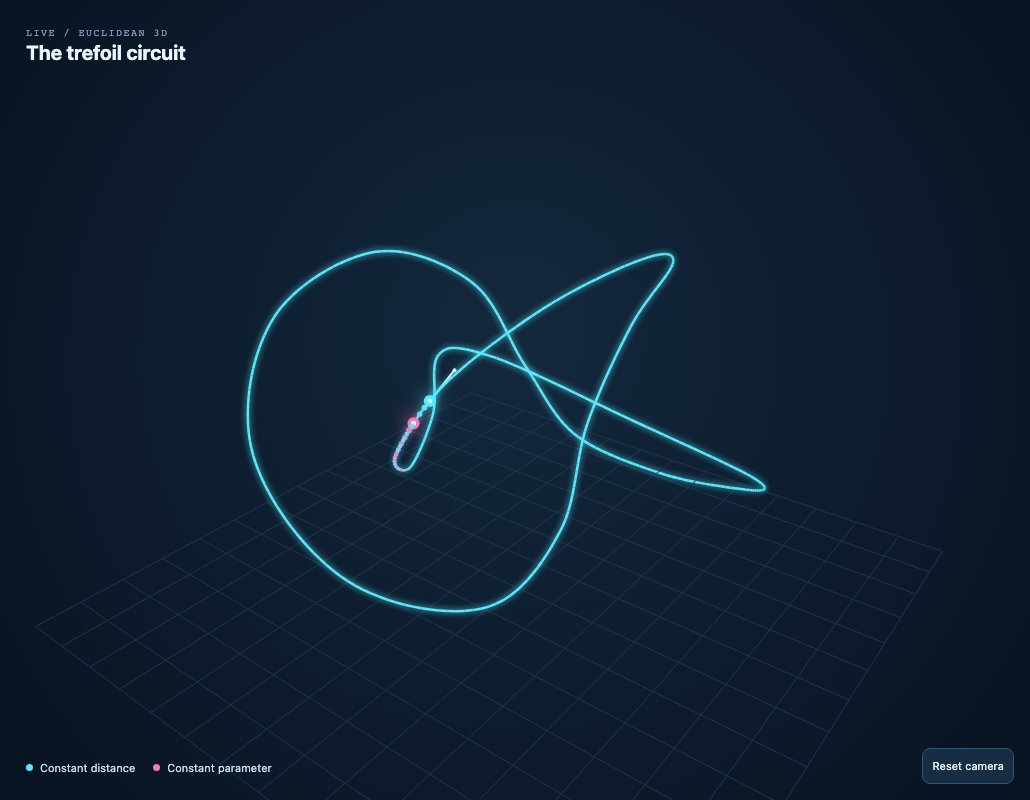
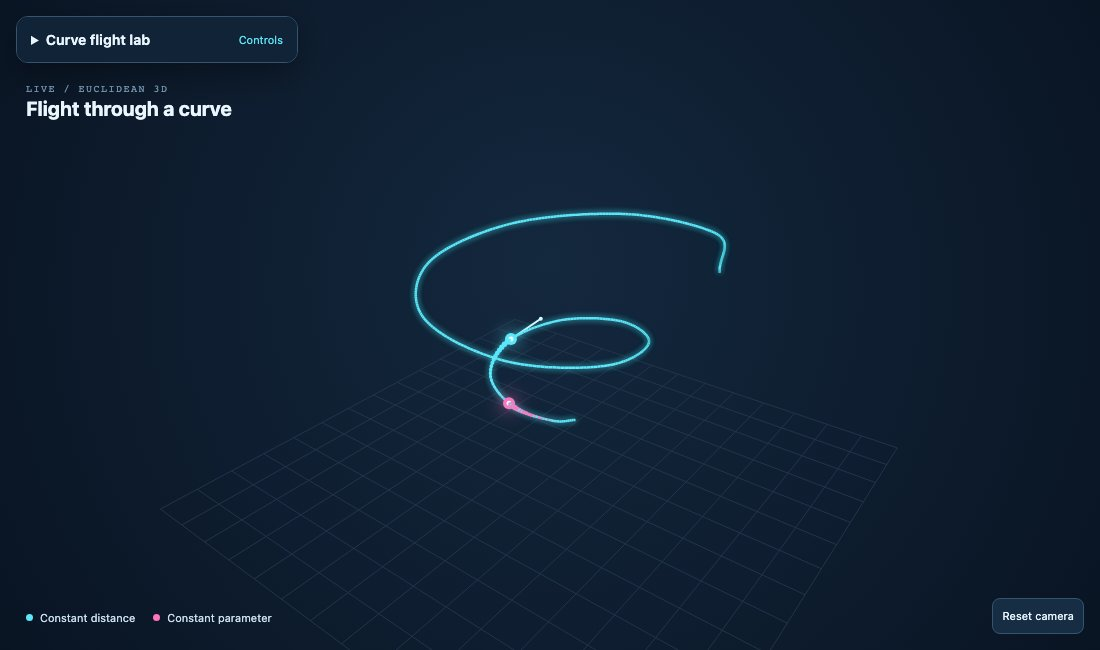
docs(curves): put controls in a collapsible overlay

diff --git a/examples/curves/app.jsx b/examples/curves/app.jsx
@@ -270,96 +270,101 @@ export default function CurvesExample() {
   );
   return (
     <div className="curves-example">
-      <aside className="curves-panel">
-        <span className="curves-eyebrow">@math.gl/curves</span>
-        <h2>Curve flight lab</h2>
-        <p>
-          One path. Two clocks. Watch the pink traveler accelerate while cyan covers equal
-          distances.
-        </p>
-        <label>
-          Path
-          <select
-            aria-label="Path"
-            value={preset}
-            onChange={event => setPreset(event.target.value)}
-          >
-            <option value="knot">Trefoil knot · closed Catmull–Rom</option>
-            <option value="spiral">Expanding spiral · Catmull–Rom</option>
-            <option value="bezier">Cubic Bézier swoop</option>
-            <option value="hermite">Hermite flight</option>
-          </select>
-        </label>
-        {(preset === 'knot' || preset === 'spiral') && (
+      <CurveCanvas {...{scene, paused, speed, showControls, showSamples}} />
+      <details className="curves-panel">
+        <summary>
+          <span>Curve flight lab</span>
+          <span className="curves-panel-toggle">Controls</span>
+        </summary>
+        <div className="curves-panel-content">
+          <span className="curves-eyebrow">@math.gl/curves</span>
+          <p>
+            One path. Two clocks. Watch the pink traveler accelerate while cyan covers equal
+            distances.
+          </p>
           <label>
-            Knot spacing
+            Path
             <select
-              aria-label="Knot spacing"
-              value={parameterization}
-              onChange={event => setParameterization(event.target.value)}
+              aria-label="Path"
+              value={preset}
+              onChange={event => setPreset(event.target.value)}
             >
-              <option value="centripetal">Centripetal</option>
-              <option value="chordal">Chordal</option>
-              <option value="uniform">Uniform</option>
+              <option value="knot">Trefoil knot · closed Catmull–Rom</option>
+              <option value="spiral">Expanding spiral · Catmull–Rom</option>
+              <option value="bezier">Cubic Bézier swoop</option>
+              <option value="hermite">Hermite flight</option>
             </select>
           </label>
-        )}
-        <label>
-          Vertical reach <output>{height.toFixed(1)}</output>
-          <input
-            aria-label="Vertical reach"
-            type="range"
-            min="0.5"
-            max="3.5"
-            step="0.1"
-            value={height}
-            onChange={event => setHeight(Number(event.target.value))}
-          />
-        </label>
-        <label>
-          Flight speed <output>{speed.toFixed(1)}×</output>
-          <input
-            aria-label="Flight speed"
-            type="range"
-            min="0.2"
-            max="2"
-            step="0.1"
-            value={speed}
-            onChange={event => setSpeed(Number(event.target.value))}
-          />
-        </label>
-        <label className="curves-check">
-          <input
-            type="checkbox"
-            checked={showControls}
-            onChange={event => setShowControls(event.target.checked)}
-          />{' '}
-          Control points
-        </label>
-        <label className="curves-check">
-          <input
-            type="checkbox"
-            checked={showSamples}
-            onChange={event => setShowSamples(event.target.checked)}
-          />{' '}
-          Equal-distance samples
-        </label>
-        <button type="button" aria-pressed={paused} onClick={() => setPaused(!paused)}>
-          {paused ? 'Resume flight' : 'Pause flight'}
-        </button>
-        <div className="curves-metric">
-          <span>Approximate path length</span>
-          <strong>
-            {scene.table.length.toFixed(2)} <small>units</small>
-          </strong>
+          {(preset === 'knot' || preset === 'spiral') && (
+            <label>
+              Knot spacing
+              <select
+                aria-label="Knot spacing"
+                value={parameterization}
+                onChange={event => setParameterization(event.target.value)}
+              >
+                <option value="centripetal">Centripetal</option>
+                <option value="chordal">Chordal</option>
+                <option value="uniform">Uniform</option>
+              </select>
+            </label>
+          )}
+          <label>
+            Vertical reach <output>{height.toFixed(1)}</output>
+            <input
+              aria-label="Vertical reach"
+              type="range"
+              min="0.5"
+              max="3.5"
+              step="0.1"
+              value={height}
+              onChange={event => setHeight(Number(event.target.value))}
+            />
+          </label>
+          <label>
+            Flight speed <output>{speed.toFixed(1)}×</output>
+            <input
+              aria-label="Flight speed"
+              type="range"
+              min="0.2"
+              max="2"
+              step="0.1"
+              value={speed}
+              onChange={event => setSpeed(Number(event.target.value))}
+            />
+          </label>
+          <label className="curves-check">
+            <input
+              type="checkbox"
+              checked={showControls}
+              onChange={event => setShowControls(event.target.checked)}
+            />{' '}
+            Control points
+          </label>
+          <label className="curves-check">
+            <input
+              type="checkbox"
+              checked={showSamples}
+              onChange={event => setShowSamples(event.target.checked)}
+            />{' '}
+            Equal-distance samples
+          </label>
+          <button type="button" aria-pressed={paused} onClick={() => setPaused(!paused)}>
+            {paused ? 'Resume flight' : 'Pause flight'}
+          </button>
+          <div className="curves-metric">
+            <span>Approximate path length</span>
+            <strong>
+              {scene.table.length.toFixed(2)} <small>units</small>
+            </strong>
+          </div>
+          <p className="curves-hint">
+            Drag to orbit · scroll to zoom
+            <br />
+            The white whisker shows the tangent.
+          </p>
         </div>
-        <p className="curves-hint">
-          Drag to orbit · scroll to zoom
-          <br />
-          The white whisker shows the tangent.
-        </p>
-      </aside>
-      <CurveCanvas {...{scene, paused, speed, showControls, showSamples}} />
+      </details>
     </div>
   );
 }

diff --git a/examples/curves/styles.css b/examples/curves/styles.css
@@ -3,21 +3,52 @@
  * SPDX-FileCopyrightText: Copyright (c) vis.gl contributors
  */
 .curves-example {
-  display: grid;
-  grid-template-columns: 250px minmax(0, 1fr);
+  position: relative;
   height: 100%;
-  min-height: 520px;
+  min-height: 340px;
   background: #07121e;
   color: #e5f3ff;
   font:
     14px/1.5 system-ui,
     sans-serif;
-  overflow: auto;
+  overflow: hidden;
 }
 .curves-panel {
-  padding: 24px;
-  background: linear-gradient(155deg, #14273c, #091522);
+  position: absolute;
+  z-index: 2;
+  top: 16px;
+  left: 16px;
+  width: min(280px, calc(100% - 76px));
+  max-height: calc(100% - 96px);
   overflow: auto;
+  background: rgba(9, 21, 34, 0.94);
+  backdrop-filter: blur(14px);
+  border: 1px solid #35546f;
+  border-radius: 12px;
+  box-shadow: 0 12px 32px #0005;
+}
+.curves-panel summary {
+  position: sticky;
+  top: 0;
+  background: #102337;
+  padding: 12px 14px;
+  cursor: pointer;
+  color: #eaf6ff;
+  font-weight: 650;
+}
+.curves-panel summary:focus-visible {
+  outline: 2px solid #5de8fa;
+  outline-offset: -3px;
+}
+.curves-panel-toggle {
+  float: right;
+  color: #5de8fa;
+  font-size: 11px;
+  font-weight: 400;
+  padding-top: 3px;
+}
+.curves-panel-content {
+  padding: 16px;
 }
 .curves-eyebrow {
   font: 11px monospace;
@@ -59,7 +90,7 @@
   font: inherit;
   cursor: pointer;
 }
-.curves-panel input[type='range'] {
+.curves-panel input[type="range"] {
   display: block;
   width: 100%;
   margin-top: 8px;
@@ -71,7 +102,7 @@
   align-items: center;
   margin: 9px 0;
 }
-.curves-panel input[type='checkbox'] {
+.curves-panel input[type="checkbox"] {
   accent-color: #5de8fa;
 }
 .curves-panel button {
@@ -101,8 +132,8 @@
   color: #91a9be;
 }
 .curves-stage {
-  position: relative;
-  min-height: 400px;
+  position: absolute;
+  inset: 0;
   overflow: hidden;
 }
 .curves-stage canvas {
@@ -118,7 +149,7 @@
 }
 .curves-scene-label {
   position: absolute;
-  top: 26px;
+  top: 82px;
   left: 26px;
   pointer-events: none;
 }
@@ -158,48 +189,16 @@
   bottom: 16px;
   font-size: 11px;
 }
+.curves-example:has(.curves-panel[open]) .curves-scene-label {
+  visibility: hidden;
+}
 @media (max-width: 650px) {
-  .curves-example {
-    grid-template-columns: 1fr;
-    min-height: 0;
-  }
-  .curves-panel {
-    padding: 16px;
-    overflow: visible;
-  }
-  .curves-panel label:not(.curves-check) {
-    display: inline-block;
-    width: calc(50% - 12px);
-    margin: 6px;
-    vertical-align: top;
-  }
-  .curves-panel .curves-check {
-    display: inline-flex;
-    margin: 6px;
-  }
-  .curves-panel h2 {
-    font-size: 22px;
-  }
-  .curves-panel p {
-    margin: 6px 0;
-  }
-  .curves-panel .curves-hint,
-  .curves-metric {
-    display: none;
-  }
-  .curves-panel button {
-    margin-top: 6px;
-  }
-  .curves-stage {
-    height: 380px;
-    min-height: 380px;
-  }
   .curves-legend {
     bottom: 60px;
     left: 16px;
+    gap: 12px;
   }
   .curves-scene-label {
-    top: 16px;
     left: 16px;
   }
 }
